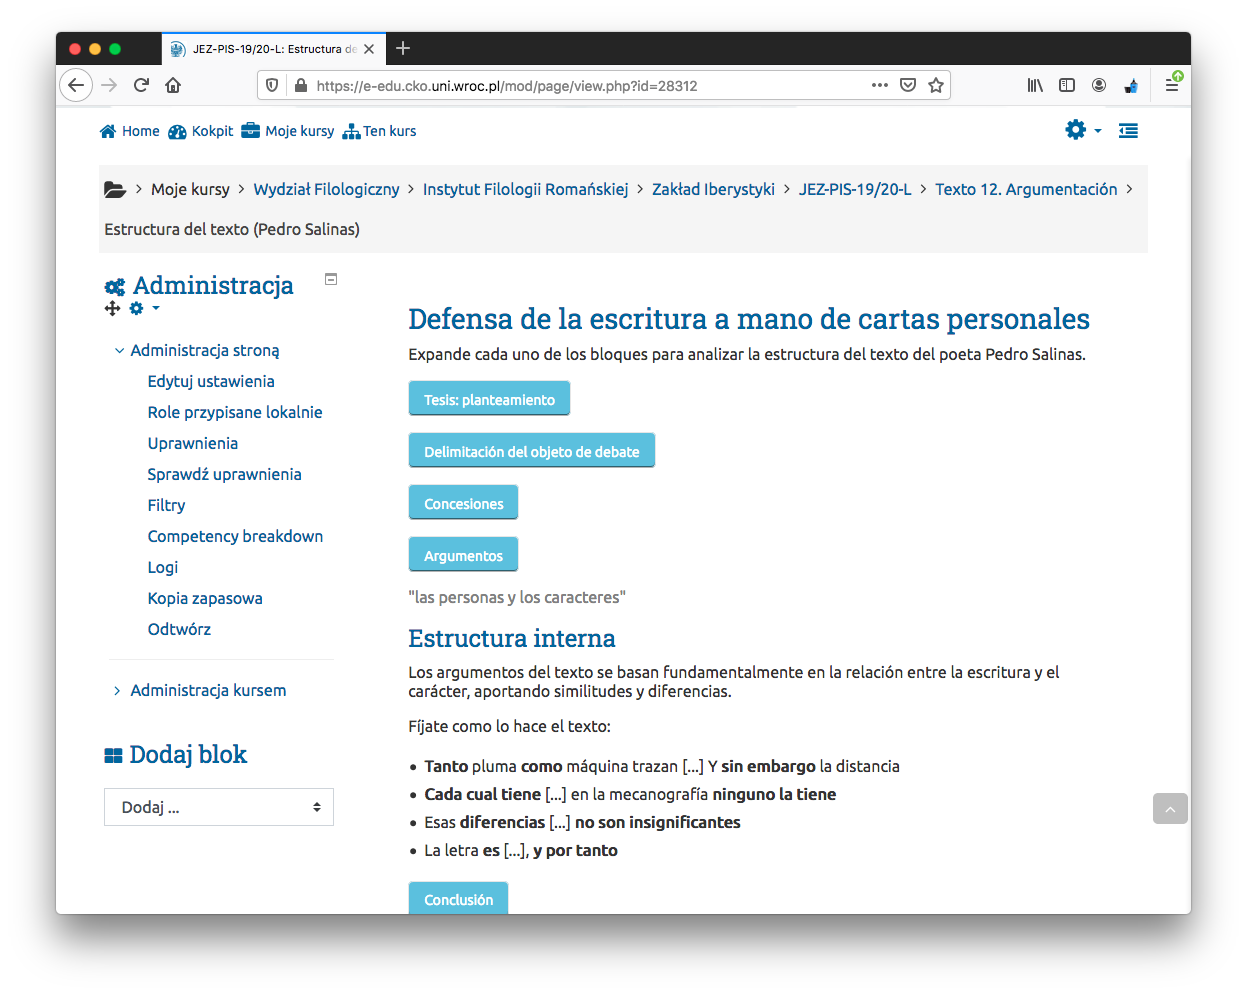
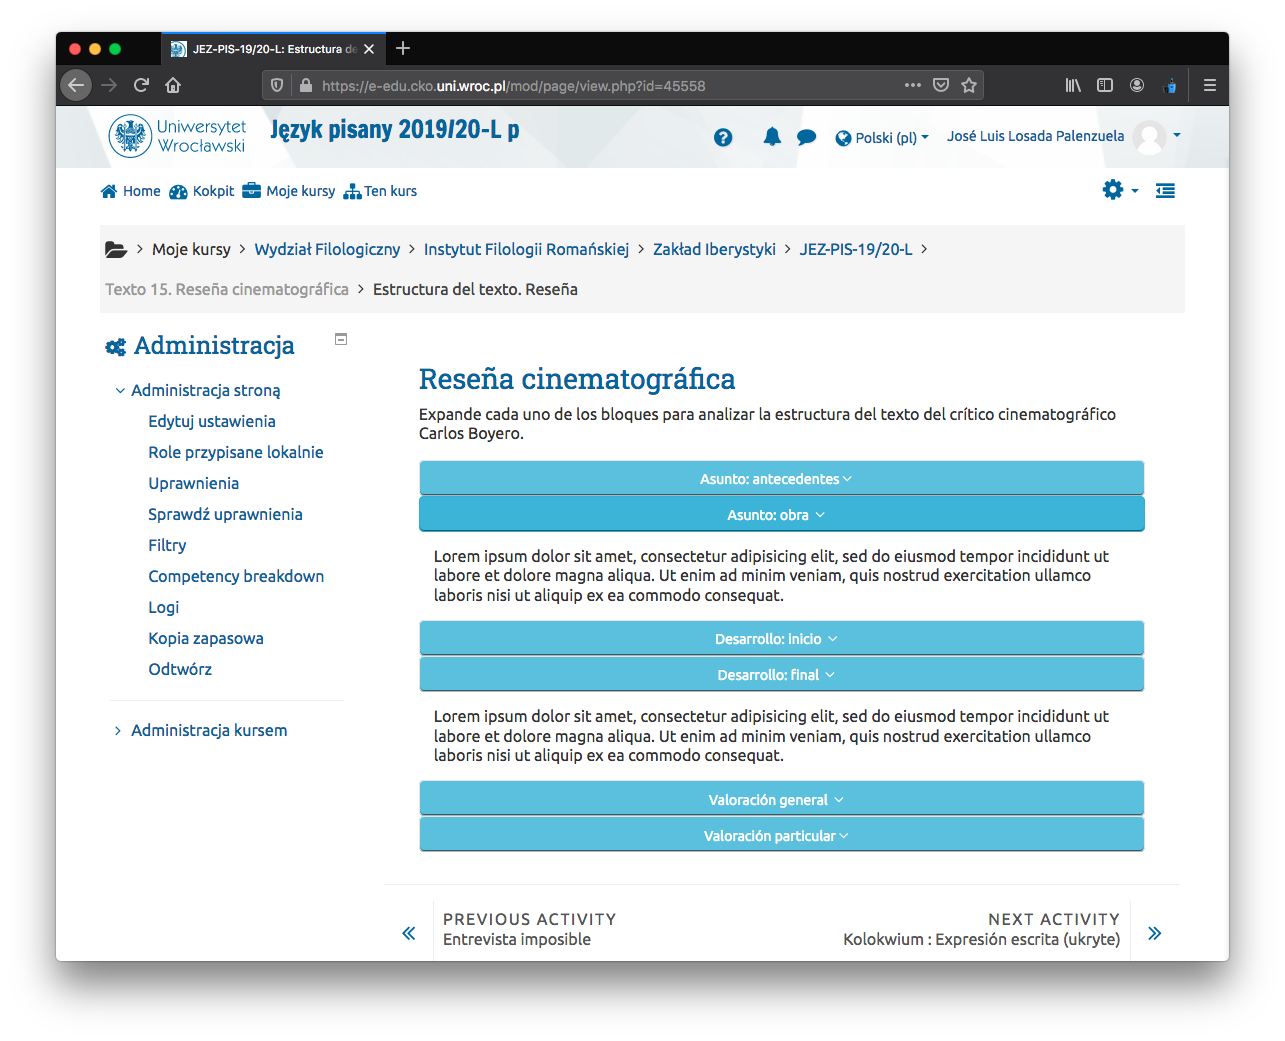
update

diff --git a/index.html b/index.html
@@ -426,7 +426,7 @@ div.tocify {
 
 <h1 class="title toc-ignore">Moodle (own) Documentation</h1>
 <h4 class="author">José Luis Losada Palenzuela</h4>
-<h4 class="date">18/04/2020</h4>
+<h4 class="date">Date: 18/04/2020 <br> Update: 29/05/2020</h4>
 
 </div>
 
@@ -486,7 +486,7 @@ Własna nazwa</li>
 <li>Pytania do tekstu</li>
 <li>Pisanie tekstów</li>
 <li>Forum</li>
-<li>Sprawdzian</li>
+<li>Sprawdzian / Kolokwium</li>
 </ul>
 <p>Aktywność domyślna z Moodla używana do każdej treści</p>
 <ul>
@@ -676,17 +676,31 @@ Dodaj aktywność lub zasób &gt; Strona</li>
 <img width="700" src="images/tooltip_page.png">
 </p>
 <ol start="3" style="list-style-type: decimal">
-<li><strong>Wyświetlić strukturę</strong> (Akordeon wykonany w JS)</li>
+<li><strong>Wyświetlić strukturę</strong> <del>(Akordeon wykonany w JS)</del> tylko bootstrap classes!</li>
 </ol>
 <ul>
-<li>Documentation to be done…</li>
+<li>Pozwala na wyświetlanie treści po kliknięciu</li>
+<li>wystarczy skopiować i wkleić do edytora html</li>
 </ul>
-<div class="sourceCode"><pre class="sourceCode r"><code class="sourceCode r"><span class="cf">function</span> <span class="kw">conclusion</span>() {
-  var x =<span class="st"> </span><span class="kw">document.getElementById</span>(<span class="st">&quot;conclusion&quot;</span>);
-      <span class="cf">if</span> (x.style.display <span class="op">==</span><span class="st"> &quot;none&quot;</span>) {
-        x.style.display =<span class="st"> &quot;block&quot;</span>;
-      } <span class="cf">else</span> {x.style.display =<span class="st"> &quot;none&quot;</span>;}
-    }</code></pre></div>
+<div class="sourceCode"><pre class="sourceCode r"><code class="sourceCode r"><span class="op">&lt;</span>div class=<span class="st">&quot;container&quot;</span><span class="op">&gt;</span><span class="st"> </span><span class="co"># Add a general container</span>
+<span class="st">  </span><span class="er">&lt;</span>h3<span class="op">&gt;</span>Reseña cinematográfica<span class="op">&lt;</span><span class="er">/</span>h3<span class="op">&gt;</span>
+<span class="st">  </span><span class="er">&lt;</span>p<span class="op">&gt;</span>Expande cada uno de los bloques...<span class="op">&lt;</span><span class="er">/</span>p<span class="op">&gt;</span>
+
+<span class="st">  </span><span class="er">&lt;</span>div class=<span class="st">&quot;panel&quot;</span><span class="op">&gt;</span>
+<span class="st">      </span><span class="er">&lt;</span>button class=<span class="st">&quot;btn btn-info btn-block&quot;</span> data<span class="op">-</span>toggle=<span class="st">&quot;collapse&quot;</span> data<span class="op">-</span>target=<span class="st">&quot;#collapse1&quot;</span><span class="op">&gt;</span>Asunto<span class="op">:</span><span class="st"> </span>antecedentes<span class="op">&lt;</span>i class=<span class="st">&quot;icon fa fa-angle-down rotate-icon&quot;</span><span class="op">&gt;</span><span class="er">&lt;/</span>i<span class="op">&gt;</span><span class="er">&lt;/</span>button<span class="op">&gt;</span>
+<span class="st">      </span><span class="er">&lt;</span>div id=<span class="st">&quot;collapse1&quot;</span> class=<span class="st">&quot;panel-collapse collapse&quot;</span><span class="op">&gt;</span>
+<span class="st">          </span><span class="er">&lt;</span>div class=<span class="st">&quot;panel-body&quot;</span><span class="op">&gt;</span>Lorem ipsum dolor sit amet,...<span class="op">&lt;</span><span class="er">/</span>div<span class="op">&gt;</span><span class="st"> </span>
+<span class="st">      </span><span class="er">&lt;/</span>div<span class="op">&gt;</span>
+<span class="st">  </span><span class="er">&lt;/</span>div<span class="op">&gt;</span>
+
+<span class="st">  </span><span class="er">&lt;</span>div class=<span class="st">&quot;panel&quot;</span><span class="op">&gt;</span>
+<span class="st">      </span><span class="er">&lt;</span>button class=<span class="st">&quot;btn btn-info btn-block&quot;</span> data<span class="op">-</span>toggle=<span class="st">&quot;collapse&quot;</span> data<span class="op">-</span>target=<span class="st">&quot;#collapse2&quot;</span><span class="op">&gt;</span>Asunto<span class="op">:</span><span class="st"> </span>obra <span class="op">&lt;</span>i class=<span class="st">&quot;icon fa fa-angle-down rotate-icon&quot;</span><span class="op">&gt;</span><span class="er">&lt;/</span>i<span class="op">&gt;</span><span class="er">&lt;/</span>button<span class="op">&gt;</span>
+<span class="st">      </span><span class="er">&lt;</span>div id=<span class="st">&quot;collapse2&quot;</span> class=<span class="st">&quot;panel-collapse collapse&quot;</span><span class="op">&gt;</span>
+<span class="st">          </span><span class="er">&lt;</span>div class=<span class="st">&quot;panel-body&quot;</span><span class="op">&gt;</span>Lorem ipsum dolor sit amet,...<span class="op">&lt;</span><span class="er">/</span>div<span class="op">&gt;</span>
+<span class="st">      </span><span class="er">&lt;/</span>div<span class="op">&gt;</span>
+<span class="st">  </span><span class="er">&lt;/</span>div<span class="op">&gt;</span><span class="st"> </span>
+<span class="st">        </span><span class="co"># Add more panels if needed</span>
+<span class="er">&lt;/</span>div<span class="op">&gt;</span><span class="st">  </span></code></pre></div>
 <p align="center">
 <img width="700" src="images/akordeon_page.png">
 </p>
@@ -694,16 +708,29 @@ Dodaj aktywność lub zasób &gt; Strona</li>
 </div>
 <div id="ćwiczenia-hp5-activity" class="section level2">
 <h2>Ćwiczenia: <code>HP5 activity</code> <img src="images/h5p.svg" width="20"></h2>
+<p>Interactive Content. Wyniki/oceny są domyślnie wpisane w dzienniku ocen.</p>
 <ul>
-<li>Documentation to be done…</li>
-<li>Interactive Content. Wyniki/oceny są domyślnie wpisane w dzienniku ocen.</li>
+<li><svg style="height:0.8em;top:.04em;position:relative;fill:#1177d1;" viewBox="0 0 448 512">
+<path d="M416 208H272V64c0-17.67-14.33-32-32-32h-32c-17.67 0-32 14.33-32 32v144H32c-17.67 0-32 14.33-32 32v32c0 17.67 14.33 32 32 32h144v144c0 17.67 14.33 32 32 32h32c17.67 0 32-14.33 32-32V304h144c17.67 0 32-14.33 32-32v-32c0-17.67-14.33-32-32-32z"/>
+</svg>
+Dodaj aktywność lub zasób &gt; Interactive Content</li>
+<li>Editor &gt; Wybierz typ zasobu &gt; np.: Drag the words</li>
+<li>Postępować zgodnie z instrukcjami, ponieważ są one bardzo jasne:
+<ul>
+<li>oznakowane gwiazdką (*) z obu stron: “no soñaría con *ponerse a* viajar”</li>
+<li>podpowiedź po dwukropku (:) <svg style="height:0.8em;top:.04em;position:relative;fill:#1177d1;" viewBox="0 0 512 512"><path d="M256 8C119.043 8 8 119.083 8 256c0 136.997 111.043 248 248 248s248-111.003 248-248C504 119.083 392.957 8 256 8zm0 110c23.196 0 42 18.804 42 42s-18.804 42-42 42-42-18.804-42-42 18.804-42 42-42zm56 254c0 6.627-5.373 12-12 12h-88c-6.627 0-12-5.373-12-12v-24c0-6.627 5.373-12 12-12h12v-64h-12c-6.627 0-12-5.373-12-12v-24c0-6.627 5.373-12 12-12h64c6.627 0 12 5.373 12 12v100h12c6.627 0 12 5.373 12 12v24z"/></svg> “no soñaría con *ponerse a<strong>:</strong>perífrasis incoativa como ‘echarse a’* viajar”</li>
+</ul></li>
+<li>btw: <svg style="height:0.8em;top:.04em;position:relative;fill:tomato;" viewBox="0 0 352 512"><path d="M96.06 454.35c.01 6.29 1.87 12.45 5.36 17.69l17.09 25.69a31.99 31.99 0 0 0 26.64 14.28h61.71a31.99 31.99 0 0 0 26.64-14.28l17.09-25.69a31.989 31.989 0 0 0 5.36-17.69l.04-38.35H96.01l.05 38.35zM0 176c0 44.37 16.45 84.85 43.56 115.78 16.52 18.85 42.36 58.23 52.21 91.45.04.26.07.52.11.78h160.24c.04-.26.07-.51.11-.78 9.85-33.22 35.69-72.6 52.21-91.45C335.55 260.85 352 220.37 352 176 352 78.61 272.91-.3 175.45 0 73.44.31 0 82.97 0 176zm176-80c-44.11 0-80 35.89-80 80 0 8.84-7.16 16-16 16s-16-7.16-16-16c0-61.76 50.24-112 112-112 8.84 0 16 7.16 16 16s-7.16 16-16 16z"/></svg> nie ma potrzeby przeciągania słów: można kliknąć i powtórzyć kliknięcie na gap: jest one automatycznie kopiowana.</li>
 </ul>
+<p align="center">
+<img width="700" src="images/h5p_drag.png">
+</p>
 <p align="center">
 <img width="700" src="images/h5p_exercise.png">
 </p>
 </div>
 <div id="pisanie-tekstów-zadanie" class="section level2">
-<h2>Pisanie tekstów: <code>zadanie</code> <img src="https://e-edu.cko.uni.wroc.pl/theme/image.php/adaptable/assign/1586901497/icon" width="20"></h2>
+<h2>Pisanie tekstów: <code>zadanie</code> <img src="images/zadanie.svg" width="20"></h2>
 <p>Student wpisuje tekst bezpośrednio w edytorze HTML. Ja następnie mogę dodać poprawki bezpośrednio do edytora lub pobrać je wszystkie w formacie HTML (<em>vide</em> Jak ocenić zadanie). Student może pisać w dowolnym momencie do ostatecznego terminu.</p>
 <ul>
 <li><svg style="height:0.8em;top:.04em;position:relative;fill:#1177d1;" viewBox="0 0 448 512">
@@ -768,13 +795,70 @@ Dodaj aktywność lub zasób &gt; zadanie</li>
 </div>
 </div>
 <div id="forum-open-forum" class="section level2">
-<h2>Forum: <code>Open Forum</code> <img src="https://e-edu.cko.uni.wroc.pl/theme/image.php/adaptable/forum/1586901497/icon" width="20"></h2>
+<h2>Forum: <code>Open Forum</code> <img src="images/forum.svg" width="20"></h2>
 <ul>
-<li>Uwaga, dwa rodzaje forum w Aktywności (&gt; Open Forum oraz Forum)</li>
-<li>Documentation to be done…</li>
+<li>Uwaga: dwa rodzaje forum w Aktywności (&gt; Open Forum oraz Forum).</li>
+<li>Uwaga: 30 minutowy limit na edycję lub usunięcie posta.</li>
+<li><svg style="height:0.8em;top:.04em;position:relative;fill:#1177d1;" viewBox="0 0 448 512">
+<path d="M416 208H272V64c0-17.67-14.33-32-32-32h-32c-17.67 0-32 14.33-32 32v144H32c-17.67 0-32 14.33-32 32v32c0 17.67 14.33 32 32 32h144v144c0 17.67 14.33 32 32 32h32c17.67 0 32-14.33 32-32V304h144c17.67 0 32-14.33 32-32v-32c0-17.67-14.33-32-32-32z"/>
+</svg>
+Dodaj aktywność lub zasób &gt; Open forum.</li>
+<li>Forum name: bądź kreatywny…</li>
+<li>Description:
+<ul>
+<li>Na pasek narzędzi edytora HTML: <svg style="height:0.8em;top:.04em;position:relative;fill:grey;" viewBox="0 0 320 512"><path d="M313.553 392.331L209.587 504.334c-9.485 10.214-25.676 10.229-35.174 0L70.438 392.331C56.232 377.031 67.062 352 88.025 352H152V80H68.024a11.996 11.996 0 0 1-8.485-3.515l-56-56C-4.021 12.926 1.333 0 12.024 0H208c13.255 0 24 10.745 24 24v328h63.966c20.878 0 31.851 24.969 17.587 40.331z"/></svg></li>
+<li>Wraz z tematem dodałem filmik wprowadzający do dyskusji. Uwaga: Dodałem filmik, który zapisałem bezpośrednio na platformie e-edu (w repozytorium), ale studentka sygnalizowała, że nie działał w jej browser (ostatnia wersja safari?): Zamieniłem go na YouTube.</li>
+</ul></li>
+<li>Forum type: A single simple discussion.<br />
+</li>
+<li>Post options: tylko Display word count <svg style="height:0.8em;top:.04em;position:relative;fill:#1177d1;" viewBox="0 0 512 512"><path d="M504 256c0 136.967-111.033 248-248 248S8 392.967 8 256 119.033 8 256 8s248 111.033 248 248zM227.314 387.314l184-184c6.248-6.248 6.248-16.379 0-22.627l-22.627-22.627c-6.248-6.249-16.379-6.249-22.628 0L216 308.118l-70.059-70.059c-6.248-6.248-16.379-6.248-22.628 0l-22.627 22.627c-6.248 6.248-6.248 16.379 0 22.627l104 104c6.249 6.249 16.379 6.249 22.628.001z"/></svg>.</li>
+<li>Attachments &gt; Maximum attachment size &gt; Przesyłanie plików jest zakazane.</li>
+<li>Subscription &gt; Optional Subscription.</li>
+<li>Ocena: chociaż można go ocenić jak w normalnym zadaniu, na razie motywuję tylko do uczestnictwa.</li>
+</ul>
+<div id="extra-stuff-video" class="section level3">
+<h3>Extra stuff (video)</h3>
+<ul>
+<li><a href="https://jameshfisher.com/2017/08/30/how-do-i-make-a-full-width-iframe/">full-width iframe with fixed aspect ratio</a>. To start a youtube video at a exact time.</li>
 </ul>
 <p align="center">
 <img width="700" src="images/forum.png">
+</p>
+</div>
+</div>
+<div id="kolokwium-zadanie" class="section level2">
+<h2>Kolokwium <code>zadanie</code> <img src="images/zadanie.svg" width="20"></h2>
+<p>Kolokwium polega na napisaniu tekstu.</p>
+<ul>
+<li><svg style="height:0.8em;top:.04em;position:relative;fill:#1177d1;" viewBox="0 0 448 512">
+<path d="M416 208H272V64c0-17.67-14.33-32-32-32h-32c-17.67 0-32 14.33-32 32v144H32c-17.67 0-32 14.33-32 32v32c0 17.67 14.33 32 32 32h144v144c0 17.67 14.33 32 32 32h32c17.67 0 32-14.33 32-32V304h144c17.67 0 32-14.33 32-32v-32c0-17.67-14.33-32-32-32z"/>
+</svg>
+(tab) Zwiększ liczbę sekcji &gt; Modyfikuj &gt; <svg style="height:0.8em;top:.04em;position:relative;fill:#1177d1;" viewBox="0 0 512 512"><path d="M487.4 315.7l-42.6-24.6c4.3-23.2 4.3-47 0-70.2l42.6-24.6c4.9-2.8 7.1-8.6 5.5-14-11.1-35.6-30-67.8-54.7-94.6-3.8-4.1-10-5.1-14.8-2.3L380.8 110c-17.9-15.4-38.5-27.3-60.8-35.1V25.8c0-5.6-3.9-10.5-9.4-11.7-36.7-8.2-74.3-7.8-109.2 0-5.5 1.2-9.4 6.1-9.4 11.7V75c-22.2 7.9-42.8 19.8-60.8 35.1L88.7 85.5c-4.9-2.8-11-1.9-14.8 2.3-24.7 26.7-43.6 58.9-54.7 94.6-1.7 5.4.6 11.2 5.5 14L67.3 221c-4.3 23.2-4.3 47 0 70.2l-42.6 24.6c-4.9 2.8-7.1 8.6-5.5 14 11.1 35.6 30 67.8 54.7 94.6 3.8 4.1 10 5.1 14.8 2.3l42.6-24.6c17.9 15.4 38.5 27.3 60.8 35.1v49.2c0 5.6 3.9 10.5 9.4 11.7 36.7 8.2 74.3 7.8 109.2 0 5.5-1.2 9.4-6.1 9.4-11.7v-49.2c22.2-7.9 42.8-19.8 60.8-35.1l42.6 24.6c4.9 2.8 11 1.9 14.8-2.3 24.7-26.7 43.6-58.9 54.7-94.6 1.5-5.5-.7-11.3-5.6-14.1zM256 336c-44.1 0-80-35.9-80-80s35.9-80 80-80 80 35.9 80 80-35.9 80-80 80z"/></svg> Edytuj sekcję</li>
+<li><svg style="height:0.8em;top:.04em;position:relative;fill:#1177d1;" viewBox="0 0 512 512">
+<path d="M504 256c0 136.967-111.033 248-248 248S8 392.967 8 256 119.033 8 256 8s248 111.033 248 248zM227.314 387.314l184-184c6.248-6.248 6.248-16.379 0-22.627l-22.627-22.627c-6.248-6.249-16.379-6.249-22.628 0L216 308.118l-70.059-70.059c-6.248-6.248-16.379-6.248-22.628 0l-22.627 22.627c-6.248 6.248-6.248 16.379 0 22.627l104 104c6.249 6.249 16.379 6.249 22.628.001z"/>
+</svg>
+Własna nazwa &gt; “Kolokwium”</li>
+<li>Streszczenie: ogólne informacje z wyprzedzeniem o kiedy, jak, co itd. Kolokwium jako tako dodam w formie aktywności lub zasobu.</li>
+<li>Background color &gt; #BAF4FF (HEX). Zaznaczyć tylko zakładkę (topic) kolokwium innym kolorem.</li>
+</ul>
+<p>Teraz dokładnie taka sama procedura jak pisanie tekstów: <code>zadanie</code> <img src="images/zadanie.svg" width="20">. Różnica polega tylko na dostępności: zaczyna się i kończy się o określonej godzinie i dniu.</p>
+<ul>
+<li>Dostępność:
+<ul>
+<li>tylko: <strong>Zezwól na przesyłanie zadań od</strong>: <svg style="height:0.8em;top:.04em;position:relative;fill:#1177d1;" viewBox="0 0 512 512"><path d="M504 256c0 136.967-111.033 248-248 248S8 392.967 8 256 119.033 8 256 8s248 111.033 248 248zM227.314 387.314l184-184c6.248-6.248 6.248-16.379 0-22.627l-22.627-22.627c-6.248-6.249-16.379-6.249-22.628 0L216 308.118l-70.059-70.059c-6.248-6.248-16.379-6.248-22.628 0l-22.627 22.627c-6.248 6.248-6.248 16.379 0 22.627l104 104c6.249 6.249 16.379 6.249 22.628.001z"/></svg> Włącz - “studenci nie będą mogli przesyłać rozwiązań przed wybraną datą.”</li>
+<li>tylko: Termin oddania: <svg style="height:0.8em;top:.04em;position:relative;fill:#1177d1;" viewBox="0 0 512 512"><path d="M504 256c0 136.967-111.033 248-248 248S8 392.967 8 256 119.033 8 256 8s248 111.033 248 248zM227.314 387.314l184-184c6.248-6.248 6.248-16.379 0-22.627l-22.627-22.627c-6.248-6.249-16.379-6.249-22.628 0L216 308.118l-70.059-70.059c-6.248-6.248-16.379-6.248-22.628 0l-22.627 22.627c-6.248 6.248-6.248 16.379 0 22.627l104 104c6.249 6.249 16.379 6.249 22.628.001z"/></svg> Włącz - Tylko informuje. Student sam kontroluje czas… system rejestruje, jeśli nie odda na czas. Ostateczny termin ustalam trochę później w przypadku pojawenia się problem techniczny, itp.</li>
+<li>tylko: Ostateczny termin: <svg style="height:0.8em;top:.04em;position:relative;fill:#1177d1;" viewBox="0 0 512 512"><path d="M504 256c0 136.967-111.033 248-248 248S8 392.967 8 256 119.033 8 256 8s248 111.033 248 248zM227.314 387.314l184-184c6.248-6.248 6.248-16.379 0-22.627l-22.627-22.627c-6.248-6.249-16.379-6.249-22.628 0L216 308.118l-70.059-70.059c-6.248-6.248-16.379-6.248-22.628 0l-22.627 22.627c-6.248 6.248-6.248 16.379 0 22.627l104 104c6.249 6.249 16.379 6.249 22.628.001z"/></svg> Włącz - Po terminie system już nie zezwala na przesłanie.</li>
+<li>Zawsze udostępniaj treść zadania: Wyłącz - “treść zadania będzie widoczna dla studentów dopiero po dacie rozpoczęcia przyjmowania prac”. Pozwala na publikację aktywności bez konieczności ukrywania przed studentami.</li>
+</ul></li>
+<li>Ustawienia przesyłania zadania
+<ul>
+<li>Nie (Tak == wersja robocza dla studenta w systemie). Studenci zgłosili, że czasami system sam się resetuje i tracą pracę, prawdopodobnie, bo browser na gorszych komputerach używa zbyt dużo pamięci. Ale jeśli wersja robocza jest dozwolona, student musi oznaczyć składaną pracę jako zakończoną.</li>
+<li>Nie</li>
+<li>Nigdy</li>
+</ul></li>
+</ul>
+<p align="center">
+<img width="700" src="images/kolokwium.png">
 </p>
 </div>
 </div>
